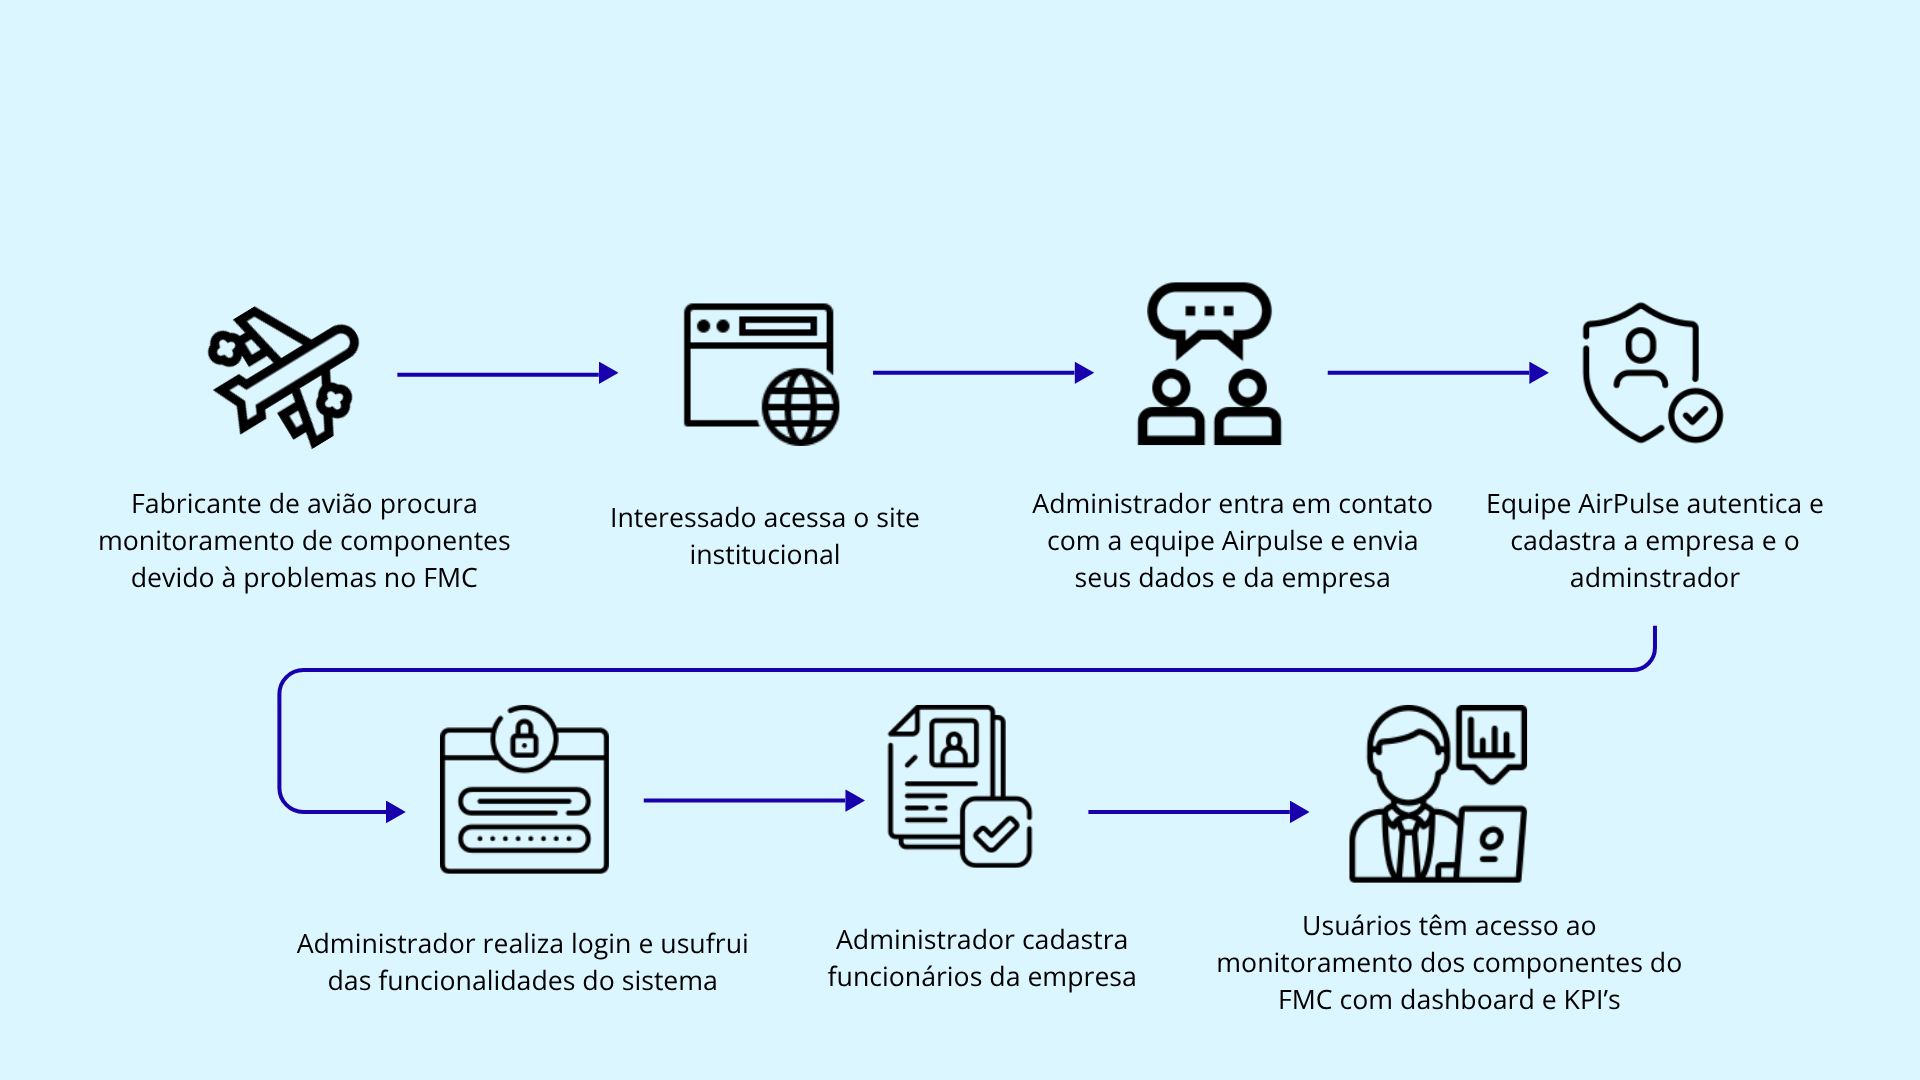
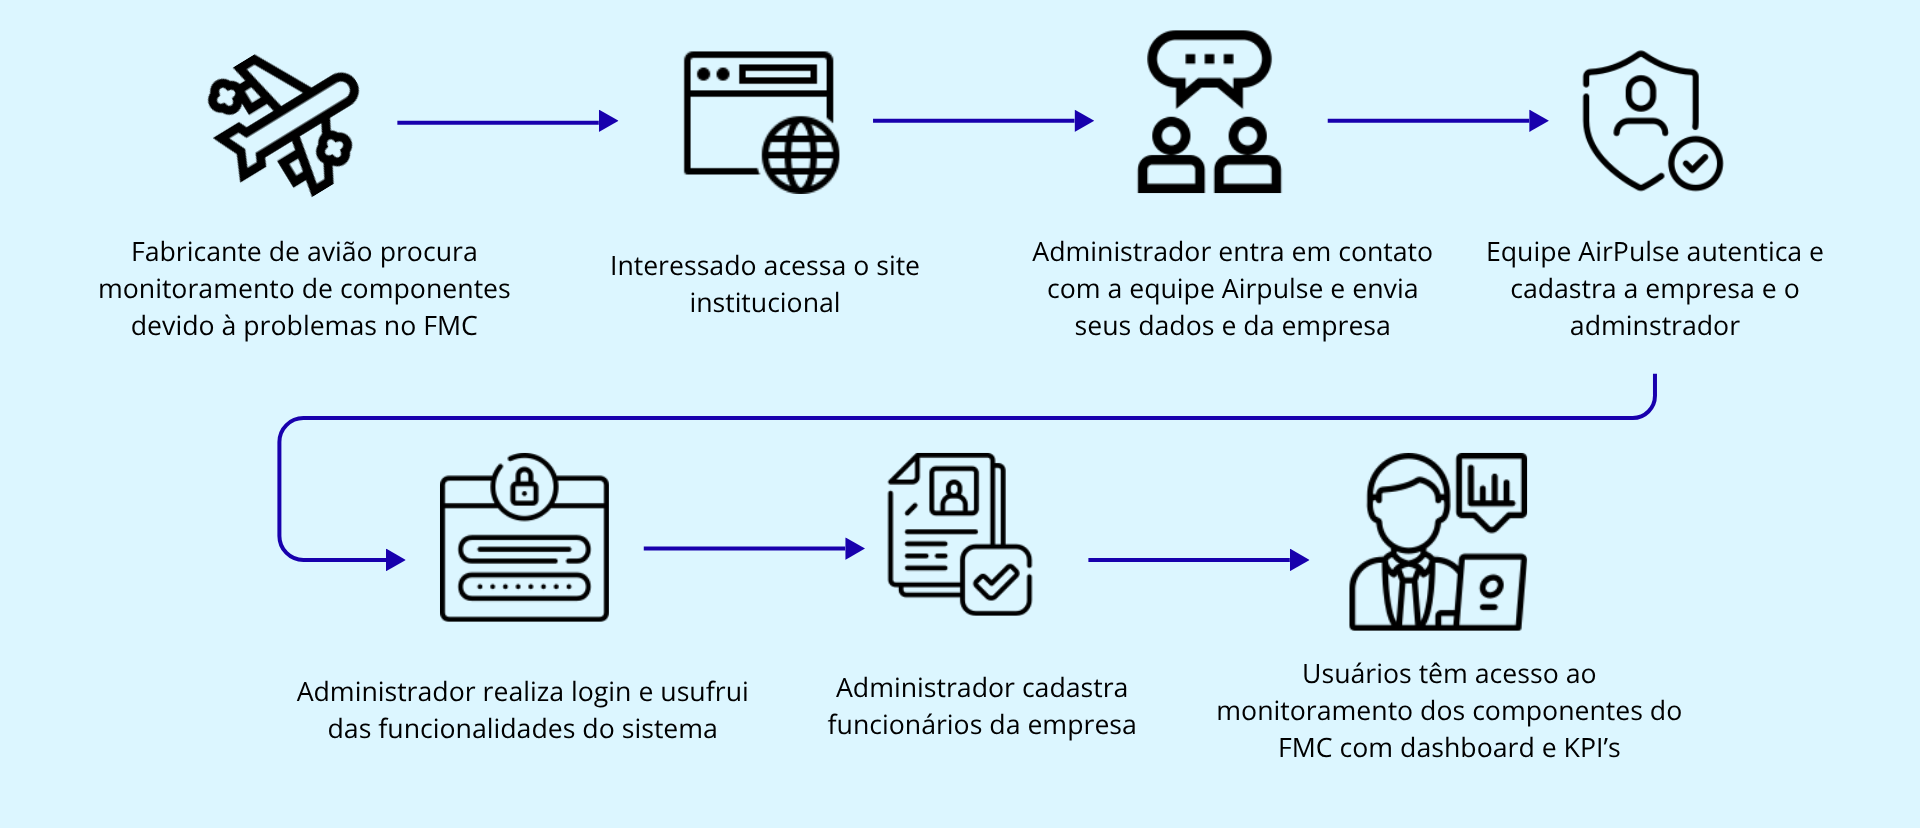
style: ajustes posições e cores

diff --git a/public/css/index.css b/public/css/index.css
@@ -94,13 +94,6 @@
     color: var(--color-primary-dark);
 }
 
-.icone-pilar-beneficios:hover  {
-    background-color: var(--color-primary);
-    color: var(--color-white);
-    transition: background-color 0.25s, color 0.25s;
-}
-
-
 /*nosso serviço ----------------------------------------------------------*/
 .secao-nosso-servico {
     background-color: var(--bg-soft);
@@ -160,12 +153,17 @@
 
 /* scroll-behavior: smooth já definido globalmente em global.css */
 
-.secoes-principais {
-    background-color: var(--bg-surface);
+.secao-nosso-servico {
+    background-color: var(--bg-soft);
     padding: 80px 120px;
 }
 
 .secao-como-funciona {
+    background-color: white;
+    padding: 80px 120px;
+}
+
+.secao-sobre-nos {
     background-color: var(--bg-soft);
     padding: 80px 120px;
 }
@@ -264,14 +262,21 @@
 }
 
 .diagrama-negocio {
-    height: 50%;
-    width: 100%;
+    height: 10%;
+    width: 75%;
     border: 3px solid var(--color-primary);
 }
 
+.ajuste-diagrama-negocio {
+    display: flex;
+    flex-direction: row;
+    justify-content: center;
+}
+
+
 .cartao-pilar {
     flex: 1;
-    background-color: var(--bg-soft);
+    background-color: white;
     border: 1px solid var(--border-soft);
     border-radius: 12px;
     padding: 28px 24px;
@@ -435,12 +440,6 @@
 .cartao-diferencial:hover {
     transform: translateY(-5px);
     box-shadow: 0 10px 28px rgba(79, 70, 229, 0.15);
-}
-
-.cartao-diferencial:hover .icone-diferencial {
-    background-color: var(--color-primary);
-    color: var(--color-white);
-    transition: background-color 0.25s, color 0.25s;
 }
 
 .icone-diferencial {

diff --git a/public/index.html b/public/index.html
@@ -12,20 +12,17 @@
 
 <body>
     <div class="header">
-        <img class="Logo" src="assets/icon/logo-airpulse.png" width="70px">
+        <img class="Logo" src="assets/AirPulse_Logo_Pack/Fundo transparente/04_Reduzida_Sem_Tagline.png" width="70px">
 
         <div class="navbar">
             <a class="nav" href="">
                 <div>Início</div>
             </a>
-            <a class="nav" href="">
+            <a class="nav" href="#nosso-servico">
                 <div>Serviço</div>
             </a>
-            <a class="nav" href="">
+            <a class="nav" href="#sobre-nos">
                 <div>Sobre Nós</div>
-            </a>
-            <a class="nav" href="">
-                <div>Contato</div>
             </a>
         </div>
 
@@ -259,7 +256,7 @@
 
     </section>
 
-    <section class="secoes-principais">
+    <section class="secao-como-funciona">
 
         <div class="rotulo-secao">
             <span class="linha-rotulo"></span>
@@ -273,7 +270,7 @@
             </h2>
         </div>
 
-        <div>
+        <div class="ajuste-diagrama-negocio">
             <img class="diagrama-negocio" src="assets/imgs/diagrama-negocio.png" alt="">
         </div>
 
@@ -281,7 +278,7 @@
 
 
     <!--Sobre nós-->
-    <section class="secoes-principais" id="sobre-nos">
+    <section class="secao-sobre-nos" id="sobre-nos">
 
         <div class="rotulo-secao">
             <span class="linha-rotulo"></span>

diff --git a/public/css/global.css b/public/css/global.css
@@ -59,14 +59,15 @@ html {
     width: 100%;
     height: 65px;
     background-color: var(--bg-soft);
-    display: flex;
-    flex-direction: row;
+    display: grid;
+    grid-template-columns: 1fr auto 1fr;
     align-items: center;
-    justify-content: space-between;
 }
 
 .Logo {
     margin-left: 20px;
+    width: 160px;
+    height:55px;
 }
 
 .navbar {
@@ -75,7 +76,6 @@ html {
     justify-content: space-between;
     align-items: center;
     gap: 40px;
-    margin-left: 120px;
     transition: color 0.3s ease;
     padding-bottom: 10px;
     margin-top: 1%;
@@ -119,6 +119,7 @@ html {
     align-items: center;
     gap: 20px;
     margin-right: 20px;
+    justify-self: end;
 }
 
 .btn-cadastro {
